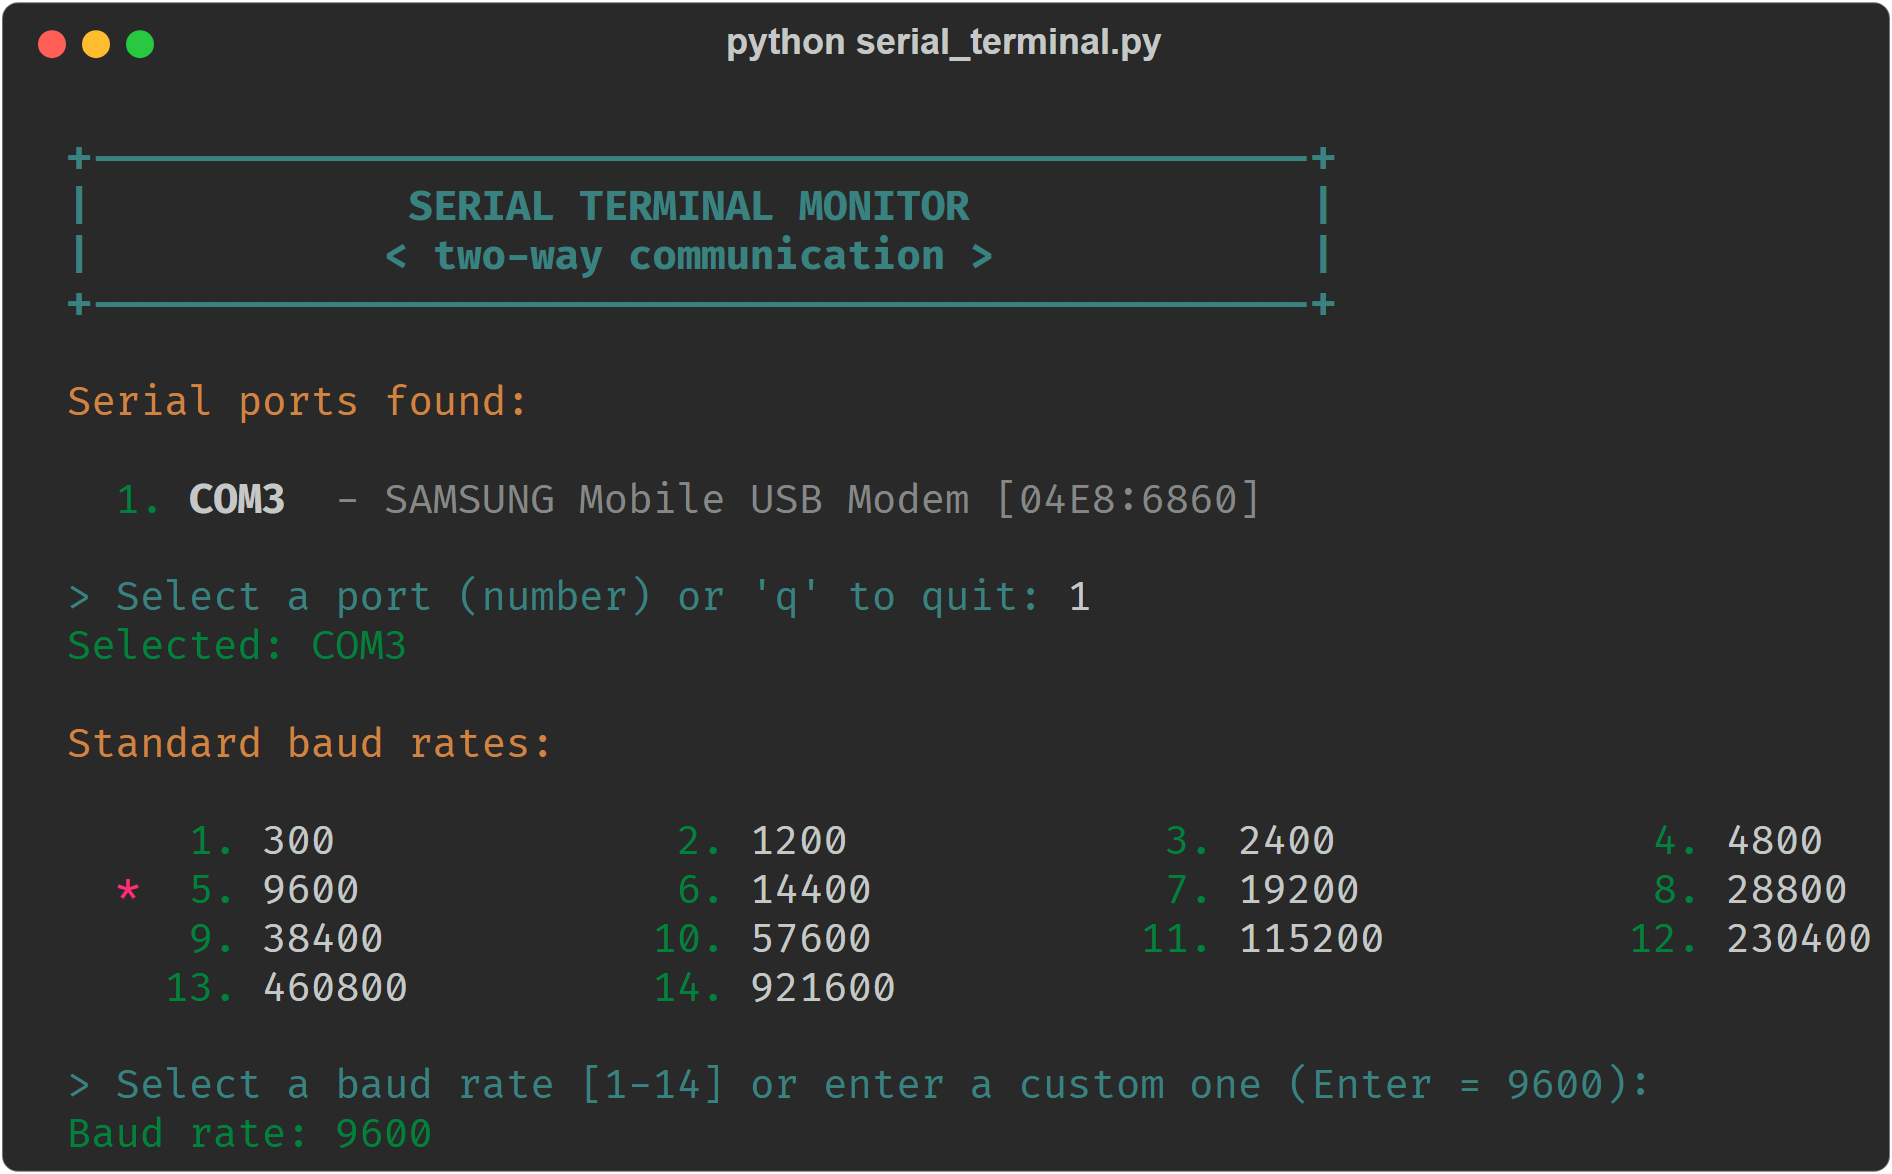
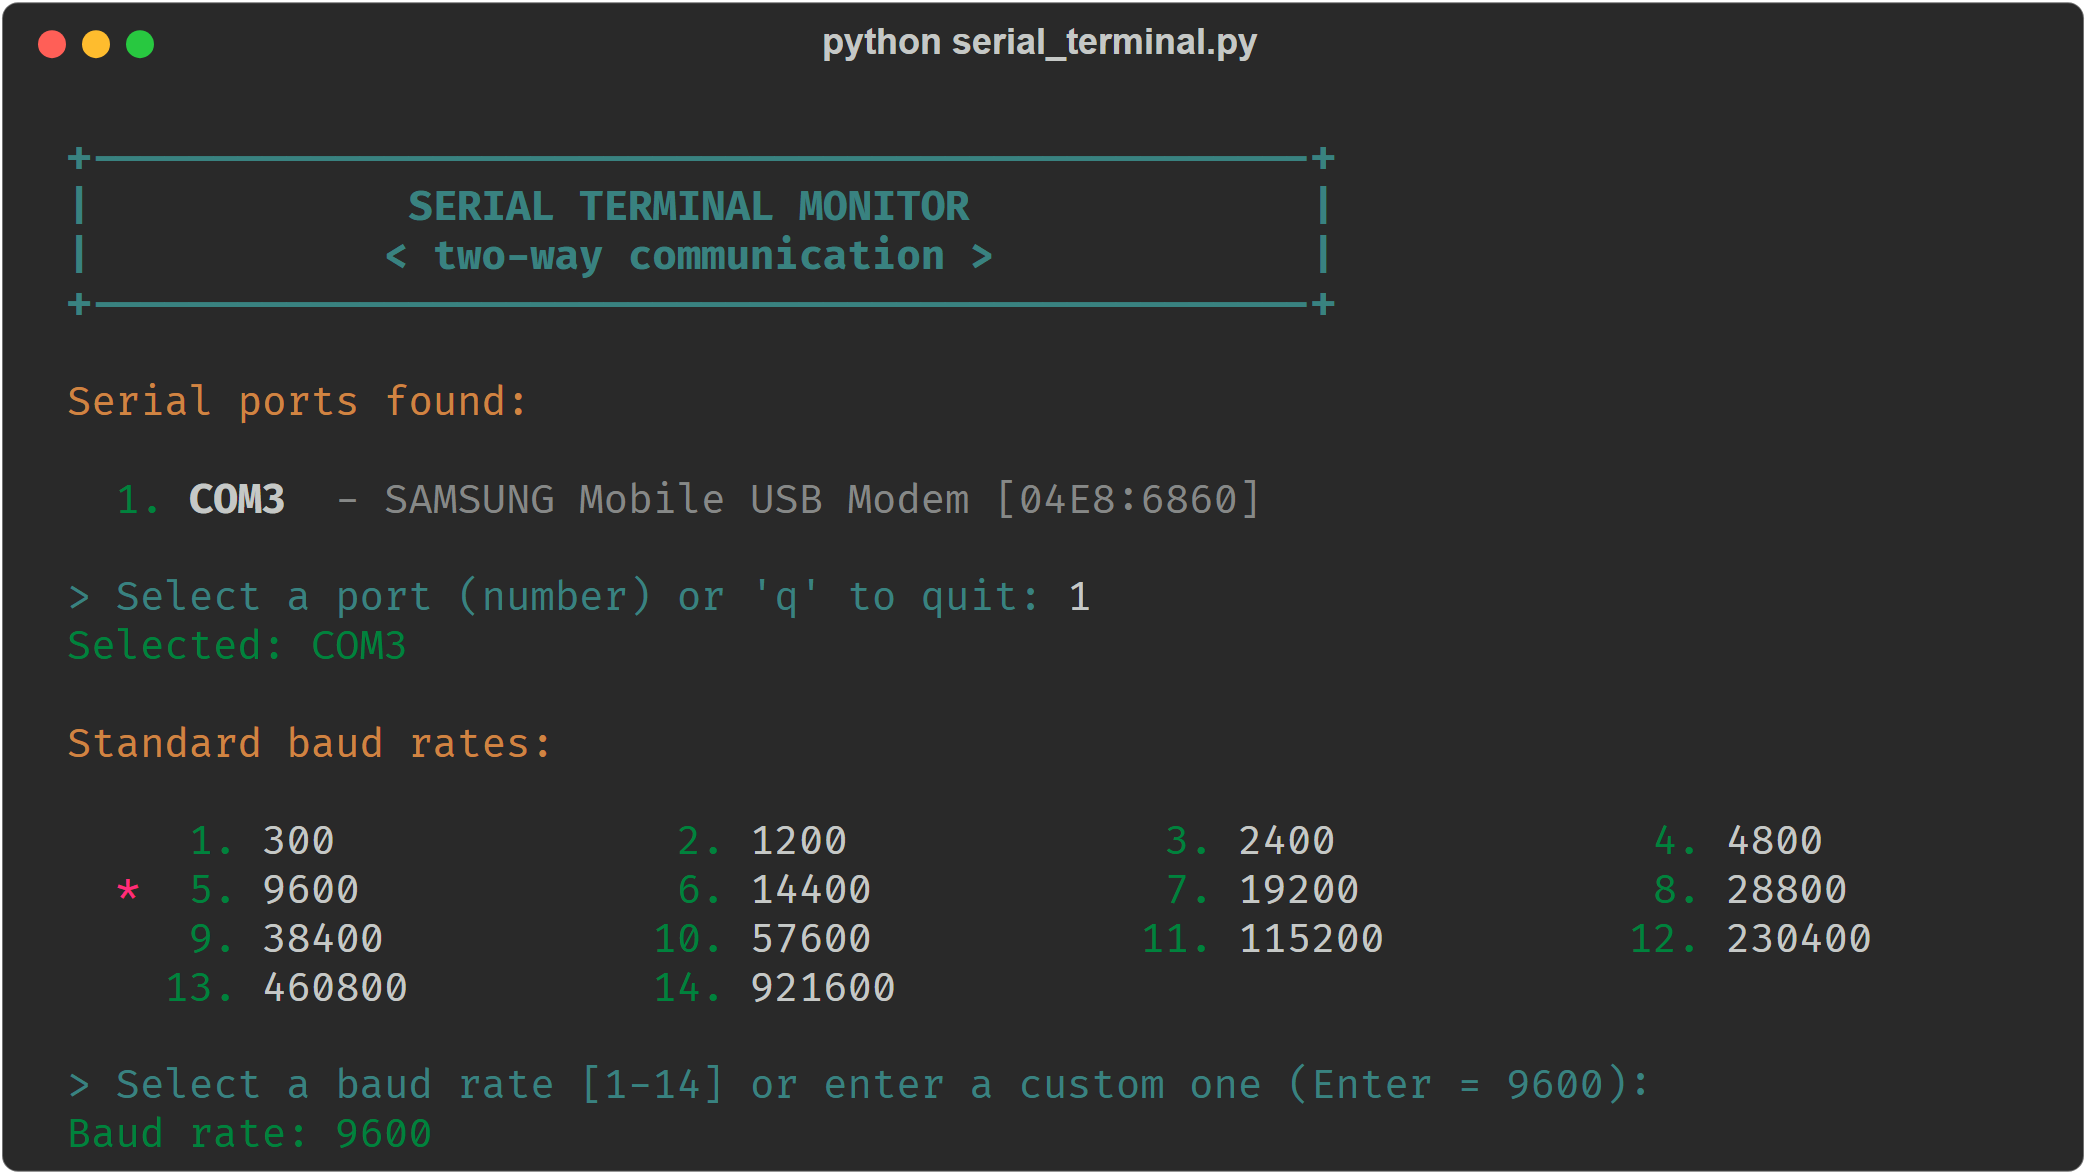
Add /ping connectivity test
/ping sends a probe (AT + CRLF by default, or a custom text/hex probe)
and reports port state, modem line signals (CTS/DSR/CD), and whether a
reply arrived within 2 s with its size, latency and contents.

README and screenshots updated.

diff --git a/serial_terminal.py b/serial_terminal.py
@@ -356,6 +356,11 @@ def reader_thread(ser, stop_event, disconnect_event, settings, out):
                 with out["lock"]:
                     print(f"{C['green']}{text}{C['reset']}", end="", flush=True)
                     out["mid_line"] = mid_line
+                    # During /ping also collect the reply
+                    if out["ping"] is not None:
+                        if out["ping"]["t"] is None:
+                            out["ping"]["t"] = time.monotonic()
+                        out["ping"]["buf"] += data
             else:
                 time.sleep(0.02)
         except (serial.SerialException, OSError):
@@ -384,11 +389,70 @@ def session_header(port, baud, settings):
     print(f"  {'=' * w}{C['reset']}")
     print()
     print(f"  {C['dim']}Type text and press Enter to send.")
-    print(f"  Commands:  /quit  /port  /clear  /hex  /eol [lf|crlf|cr|none]  /info")
+    print(f"  Commands:  /quit  /port  /clear  /hex  /eol [lf|crlf|cr|none]  /ping  /info")
     print(f"  Mode: {'HEX' if settings['hex'] else 'TEXT'}   "
           f"Line ending: {settings['eol'].upper()}{C['reset']}")
     print(f"  {C['dim']}{'-' * w}{C['reset']}")
     print()
+
+
+def escape_bytes(data):
+    """Shows bytes as text with visible control characters (\\r, \\n, \\xNN)."""
+    text = data.decode("utf-8", errors="backslashreplace")
+    return "".join(
+        ch.encode("unicode_escape").decode("ascii") if ch < " " or ch == "\x7f" else ch
+        for ch in text
+    )
+
+
+def ping(ser, arg, settings, out, show):
+    """
+    Connectivity test: checks the port and line signals, sends a probe
+    and waits for any reply.
+    arg: probe to send (empty = 'AT' + CRLF). In HEX mode arg is hex bytes,
+    in TEXT mode the current line ending is added.
+    """
+    if not arg:
+        probe = b"AT\r\n"
+    elif settings["hex"]:
+        probe = parse_hex(arg)
+    else:
+        probe = arg.encode("utf-8") + EOL_OPTIONS[settings["eol"]]
+
+    def signal(name):
+        try:
+            return "on" if getattr(ser, name) else "off"
+        except (serial.SerialException, OSError, AttributeError):
+            return "n/a"
+
+    show(f"\n  {C['cyan']}PING {ser.port}  probe: \"{escape_bytes(probe)}\"{C['reset']}")
+    show(f"  {C['dim']}Port:     {'open' if ser.is_open else 'closed'}")
+    show(f"  Signals:  CTS={signal('cts')}  DSR={signal('dsr')}  CD={signal('cd')}{C['reset']}")
+
+    with out["lock"]:
+        out["ping"] = {"buf": bytearray(), "t": None}
+    try:
+        start = time.monotonic()
+        ser.write(probe)
+        # Wait up to 2 s for the first byte, then a little longer for the rest
+        while time.monotonic() - start < 2 and out["ping"]["t"] is None:
+            time.sleep(0.02)
+        if out["ping"]["t"] is not None:
+            time.sleep(0.3)
+    finally:
+        with out["lock"]:
+            reply, first = bytes(out["ping"]["buf"]), out["ping"]["t"]
+            out["ping"] = None
+
+    if reply:
+        ms = int((first - start) * 1000)
+        show(f"  {C['dim']}Reply:    {len(reply)} bytes in {ms} ms  -> \"{escape_bytes(reply)}\"{C['reset']}")
+        show(f"  {C['green']}Result:   OK - the device is responding{C['reset']}\n")
+    else:
+        show(f"  {C['dim']}Reply:    none within 2 s{C['reset']}")
+        show(f"  {C['red']}Result:   NO REPLY - the port is open but the device did not answer{C['reset']}")
+        show(f"  {C['dim']}Tip: not every device answers AT. "
+             f"Try /ping <a command your device understands>.{C['reset']}\n")
 
 
 def run_session(port, baud, settings, open_attempts=1):
@@ -428,7 +492,7 @@ def run_session(port, baud, settings, open_attempts=1):
 
     stop_event = threading.Event()
     disconnect_event = threading.Event()
-    out = {"lock": threading.Lock(), "mid_line": False}
+    out = {"lock": threading.Lock(), "mid_line": False, "ping": None}
 
     reader = threading.Thread(
         target=reader_thread,
@@ -500,6 +564,18 @@ def run_session(port, baud, settings, open_attempts=1):
                     opts = " | ".join(EOL_OPTIONS)
                     show(f"  {C['magenta']}Line ending: {settings['eol'].upper()}   "
                          f"{C['dim']}(/eol {opts}){C['reset']}")
+                continue
+
+            elif cmd == "/ping" or cmd.startswith("/ping "):
+                try:
+                    ping(ser, user_input.strip()[5:].strip(), settings, out, show)
+                except serial.SerialException as e:
+                    show(f"  {C['red']}Send error: {e}{C['reset']}")
+                    disconnect_event.set()
+                    result = "disconnected"
+                    break
+                except ValueError:
+                    show(f"  {C['red']}Invalid HEX format.{C['reset']}")
                 continue
 
             elif cmd == "/info":

diff --git a/README.md b/README.md
@@ -13,13 +13,14 @@ Single file, one dependency ([pyserial](https://pypi.org/project/pyserial/)), wo
 - **Two-way communication** — incoming data in green, sent data marked with `TX >`.
 - **Text and HEX modes** — `/hex` switches both sending and receiving to hex bytes, for binary protocols.
 - **Configurable line ending** — send `LF`, `CRLF`, `CR` or nothing after each line (`/eol`).
+- **Connectivity test** — `/ping` sends a probe and reports whether the device replies, how fast, and the modem line signals.
 - **Automatic reconnect** — if the device is unplugged, the monitor waits for the same port to return and reconnects at the same baud rate.
 - **Correct UTF-8 handling** — multi-byte characters (e.g. Cyrillic) are decoded correctly even when split across reads.
 - **Clean exit** — `Ctrl+C` exits gracefully from any screen.
 
 ## Screenshots
 
-**Talking to a USB modem** — `AT` → `OK` in text mode, the same exchange in HEX mode, then `/info`:
+**Talking to a USB modem** — a `/ping` connectivity test, `AT` → `OK` in text mode, the same exchange in HEX mode, then `/info`:
 
 ![Session in text and hex mode](docs/screenshots/session.png)
 
@@ -61,7 +62,35 @@ python serial_terminal.py
 | `/hex` | Toggle HEX mode for sending **and** receiving |
 | `/eol` | Show the current line ending |
 | `/eol lf\|crlf\|cr\|none` | Set the line ending appended to sent text |
+| `/ping` | Test connectivity: send `AT` and report whether and how fast the device replies |
+| `/ping <probe>` | Same, with your own probe (text + line ending, or hex bytes in HEX mode) |
 | `/info` | Show port settings, mode and connection status |
+
+### Connectivity test
+
+`/ping` checks that the device is really there and answering:
+
+```text
+  PING COM3  probe: "AT\r\n"
+  Port:     open
+  Signals:  CTS=on  DSR=on  CD=on
+  Reply:    9 bytes in 32 ms  -> "AT\r\r\nOK\r\n"
+  Result:   OK - the device is responding
+```
+
+- **Port** — whether the serial port is still open.
+- **Signals** — modem control lines (CTS, DSR, CD). Many USB adapters and boards report them as `off` or `n/a`; that is normal.
+- **Reply** — the first reply within 2 seconds, its size, latency and contents with control characters made visible.
+
+The default probe `AT` suits modems. Other devices only answer commands they understand, so give your own probe:
+
+```text
+/ping hello            text mode: sends "hello" + the current line ending
+/ping 01 03 00 00 00 01 84 0A   hex mode: sends these exact bytes
+```
+
+`NO REPLY` means the port works but the device did not answer that probe — check the baud rate, line ending and
+the probe itself.
 
 ### HEX mode
 
